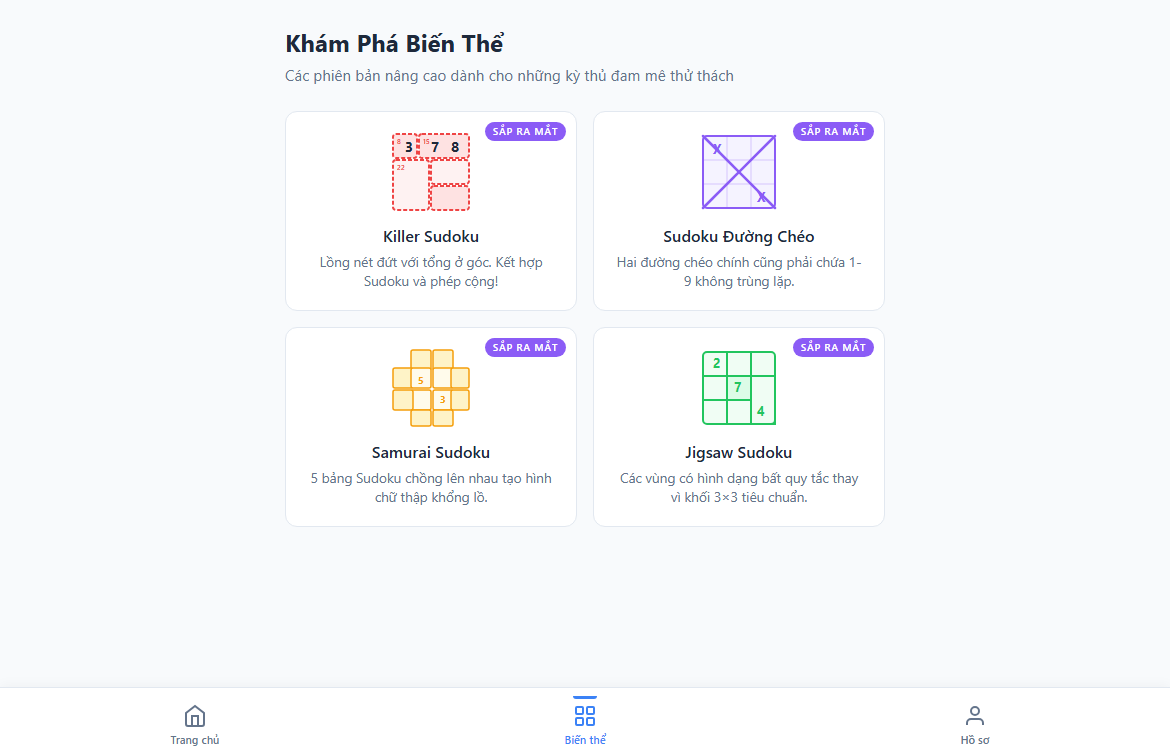
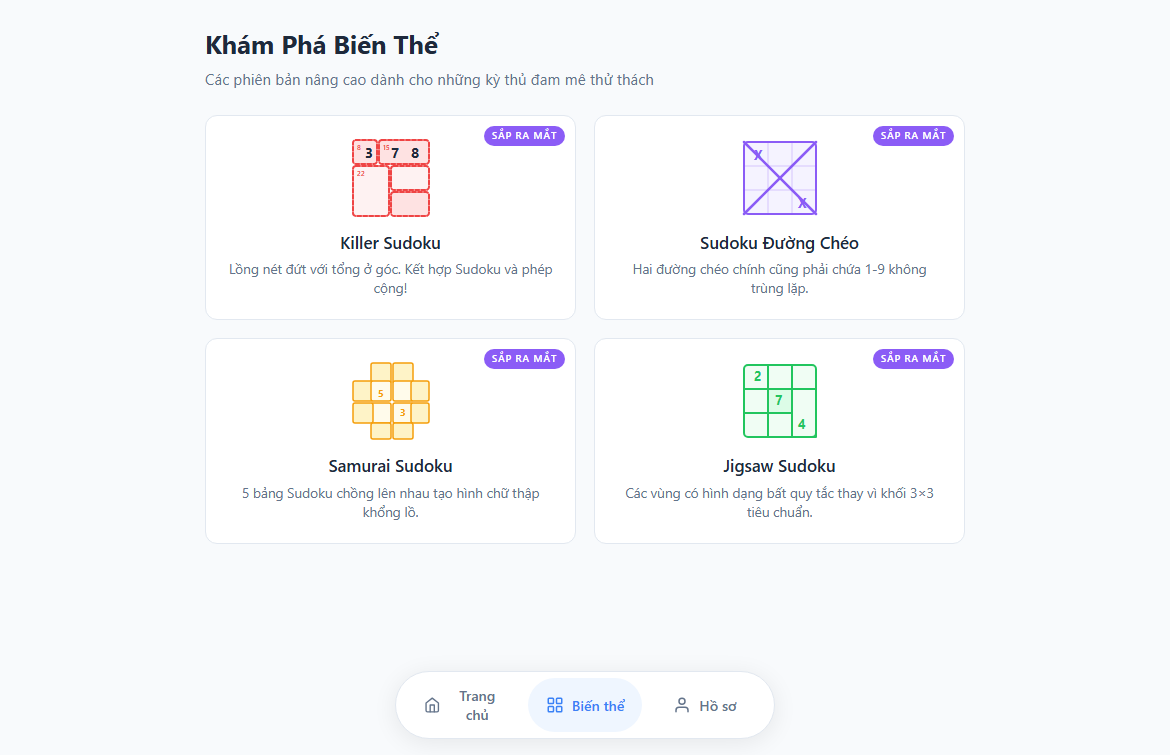
docs(ui): update readme, docs and 10 showcase screenshots

diff --git a/README.md b/README.md
@@ -1,9 +1,9 @@
-# 🧩 Sudoku Web App
+# 🧩 Sudoku Web App — Phiên Bản Tối Ưu Hóa 100% Cho PC
 
 <p align="center">
-  <b>Trải nghiệm giải đố trí tuệ kinh điển với giao diện hiện đại, mượt mà và tối giản.</b>
+  <b>Trải nghiệm giải đố trí tuệ kinh điển với giao diện chuyên biệt cho máy tính (PC / Laptop), mượt mà và tối giản.</b>
   <br>
-  <i>Xây dựng 100% bằng HTML5, CSS3 và Vanilla JavaScript - Tinh gọn, thuần khiết, không phụ thuộc thư viện.</i>
+  <i>Xây dựng 100% bằng HTML5, CSS3 và Vanilla JavaScript — Tinh gọn, thuần khiết, Web Audio procedural SFX, không phụ thuộc bất kỳ thư viện ngoài nào.</i>
 </p>
 
 <p align="center">
@@ -24,6 +24,7 @@
   <img src="https://img.shields.io/badge/Pure%20JS-ES6+-F7DF1E?style=flat-square&logo=javascript&logoColor=black" alt="JavaScript">
   <img src="https://img.shields.io/badge/HTML5-Semantic-E34F26?style=flat-square&logo=html5&logoColor=white" alt="HTML5">
   <img src="https://img.shields.io/badge/CSS3-Modern%20Design-1572B6?style=flat-square&logo=css3&logoColor=white" alt="CSS3">
+  <img src="https://img.shields.io/badge/PC%20Optimized-100%25-0284C7?style=flat-square" alt="PC Optimized">
   <img src="https://img.shields.io/badge/Dependencies-0-brightgreen?style=flat-square" alt="Zero Dependencies">
   <img src="https://img.shields.io/badge/License-MIT-blue?style=flat-square" alt="MIT License">
 </p>
@@ -33,20 +34,29 @@
 ## 🌟 Trải Nghiệm Hình Ảnh (Showcase)
 
 <p align="center">
-  <img src="screenshots/6-gameplay.png" alt="Màn hình bàn đấu Sudoku 9x9" width="48%">
+  <img src="screenshots/6-gameplay.png" alt="Màn hình bàn đấu Sudoku 9x9 PC" width="48%">
   &nbsp;
-  <img src="screenshots/2-lobby-home.png" alt="Sảnh chính" width="48%">
+  <img src="screenshots/5-profile.png" alt="Sảnh Hồ sơ chuẩn Dashboard không cần cuộn trang" width="48%">
 </p>
 <p align="center">
-  <img src="screenshots/3-tutorial.png" alt="Hướng dẫn tương tác 3 bước" width="48%">
+  <img src="screenshots/2-lobby-home.png" alt="Sảnh chính với thanh điều hướng Dock Desktop" width="48%">
   &nbsp;
-  <img src="screenshots/5-profile.png" alt="Hồ sơ thành tích & Biểu đồ thống kê" width="48%">
+  <img src="screenshots/10-mobile-notice.png" alt="Màn hình thông báo thân thiện chỉ dành cho kích thước màn hình PC" width="48%">
 </p>
 
 ---
 
 ## ✨ Điểm Nổi Bật Của Sản Phẩm
 
+* 🖥 **Thiết Kế Chuyên Biệt 100% Cho PC & Laptop:**
+  * Toàn bộ bố cục được tinh chỉnh hoàn hảo cho màn hình máy tính (1080p, 1440p, laptop 768p+).
+  * **Sảnh Hồ sơ (Profile Tab):** Bố cục Dashboard 2 cột cực kỳ ngăn nắp, hiển thị toàn bộ chỉ số, biểu đồ tròn và cài đặt trong đúng **1 màn hình duy nhất — Tuyệt đối không cần cuộn lên hay lướt xuống**.
+  * **Thanh điều hướng Dock:** Thiết kế dạng viên thuốc nổi (floating dock pill) hiện đại, sang trọng như các ứng dụng desktop cao cấp.
+  * **Thông báo thân thiện khi mở trên điện thoại (Mobile Device Notice):** Tự động phát hiện thiết bị di động / màn hình nhỏ và hiển thị màn hình thông báo lịch sự, giải thích game được tối ưu 100% cho PC và đề xuất trải nghiệm trên máy tính.
+* 🔊 **Hệ Thống Âm Thanh Procedural Web Audio SFX:**
+  * Tích hợp bộ tạo âm thanh tổng hợp đa hài âm (sine/triangle synthesizer) độc lập 100%, không cần tải file mp3 bên ngoài.
+  * Phản hồi âm thanh sống động cho 10 trạng thái: điền đúng, combo thăng hoa (arpeggio), điền sai, bật/tắt ghi chú, hoàn tác, gợi ý, nút bấm, tạm dừng, game over và giai điệu chiến thắng.
+  * Hỗ trợ bật/tắt nhanh âm thanh ngay trên Header trận đấu hoặc trong Sảnh Hồ sơ.
 * 🧠 **Đề Bài Chuẩn Quốc Tế:** Thuật toán tạo đề thông minh với **duy nhất 1 lời giải** cho mỗi ván chơi. Hỗ trợ 3 cấp độ phù hợp cho mọi đối tượng từ người mới đến cao thủ:
   * **Dễ (Easy):** 38 – 45 ô cho trước — Thư giãn, giải trí nhẹ nhàng.
   * **Trung bình (Medium):** 30 – 35 ô cho trước — Rèn luyện khả năng suy đoán.
@@ -55,11 +65,11 @@
 * 🛠 **Bộ Công Cụ Hỗ Trợ Đắc Lực:**
   * **Ghi Chú Nháp (Pencil Notes):** Điền số nháp linh hoạt, tự động làm sạch số nháp trùng khi chốt đáp án.
   * **Hoàn Tác & Xóa (Undo / Erase):** Sửa sai tức thì mà không lo gián đoạn mạch tư duy.
-  * **Gợi Ý Thông Minh (Hint):** Trợ giúp giải ô hóc búa kèm hiệu ứng tỏa sáng.
+  * **Gợi Ý Thông Minh (Hint):** Trợ giúp giải ô hóc búa kèm hiệu ứng tỏa sáng, dùng lần lượt từng ô tiện lợi.
   * **Bàn Phím Số Kèm Bộ Đếm:** Lưới phím 3x3 hiển thị số lượng con số còn thiếu, tự động làm mờ khi đã điền đủ 9 số.
 * 🎓 **Hướng Dẫn Tương Tác Trực Quan:** Chế độ Hướng dẫn 3 bước với hình ảnh động chuyển động ngay trên lưới cờ, giúp người chơi nắm vững quy tắc cơ bản chỉ sau 1 phút.
 * 📈 **Hồ Sơ & Thống Kê Toàn Diện:** Lưu trữ thành tích cá nhân, tính toán tỉ lệ thắng, chuỗi trận bất bại và thời gian giải nhanh nhất qua biểu đồ trực quan.
-* ⚡ **Thuần Khiết & Tiện Lợi (Zero Dependencies):** Không cần cài đặt thư viện nặng nề, không cần môi trường lập trình phức tạp. Nhấp đúp chuột là chơi ngay trên mọi thiết bị và trình duyệt.
+* ⚡ **Thuần Khiết & Tiện Lợi (Zero Dependencies):** Không cần cài đặt thư viện nặng nề, không cần môi trường lập trình phức tạp. Nhấp đúp chuột là chơi ngay trên mọi trình duyệt hiện đại.
 * 💾 **Tự Động Lưu Trạng Thái (Zero-Loss):** Tự động ghi nhớ ván chơi dở dang. Bạn có thể yên tâm đóng trình duyệt và quay lại tiếp tục bất kỳ lúc nào.
 
 ---
@@ -84,7 +94,7 @@ python server.py
 
 ---
 
-## ⌨ Phím Tắt Thao Tác Nhanh
+## ⌨ Phím Tắt Thao Tác Nhanh (Bàn Phím PC)
 
 | Phím Tắt | Chức Năng |
 | :--- | :--- |
@@ -93,6 +103,7 @@ python server.py
 | `Ctrl + Z` | Hoàn tác nước đi trước đó |
 | `N` | Bật / Tắt chế độ Ghi chú nháp (Notes) |
 | `H` | Nhận gợi ý (Hint) cho ô hiện tại |
+| `Space` / `P` | Tạm dừng ván đấu |
 | `↑` `↓` `←` `→` | Di chuyển ô chọn trên bàn cờ 9x9 |
 
 ---
@@ -108,42 +119,44 @@ Sudoku_game/
 ├── .gitignore                 # Danh sách tệp loại trừ không lưu trên Git
 ├── docs/                      # Hệ thống tài liệu kỹ thuật toàn diện cho Dev & AI
 │   ├── 01_project_overview.txt         # Tổng quan, triết lý, cây thư mục & cách chạy
-│   ├── 02_architecture_and_modules.txt # Kiến trúc SPA & chi tiết 9 module JavaScript
+│   ├── 02_architecture_and_modules.txt # Kiến trúc SPA & chi tiết các module JavaScript
 │   ├── 03_game_logic_and_rules.txt     # Chi tiết quy tắc tính điểm, combo, phạt & Game Over
-│   ├── 04_ui_ux_design_system.txt      # Bảng màu, typography, responsive, hiệu ứng cảnh báo
+│   ├── 04_ui_ux_design_system.txt      # Bảng màu, typography, bố cục PC Desktop, cảnh báo
 │   ├── 05_dev_guidelines_and_notes.txt # Những lưu ý sống còn, quy chuẩn commit, quy tắc Git
-│   ├── 06_css_styling_and_architecture.txt # Phân tích chuyên sâu toàn diện 6 file CSS độc lập
+│   ├── 06_css_styling_and_architecture.txt # Phân tích chuyên sâu 6 file CSS desktop
 │   └── 07_developer_tools_and_testing.txt  # Hướng dẫn bộ công cụ DevTools & QA Cheat HUD
 ├── devtools/                  # Bộ công cụ Developer Tools & Cheat kiểm thử (Tách biệt độc lập)
 │   ├── devtools.css           # Giao diện Dark Console HUD & Ghost Answers
 │   └── devtools.js            # Module xác thực & logic can thiệp game engine
-├── screenshots/               # Thư viện ảnh chụp giao diện thực tế (9 màn hình)
+├── screenshots/               # Thư viện ảnh chụp giao diện thực tế (10 màn hình PC)
 │   ├── 1-splash.png           # Màn hình mở đầu (Splash Screen) với hiệu ứng số nảy
-│   ├── 2-lobby-home.png       # Sảnh chính (Lobby Home) chọn cấp độ chơi
+│   ├── 2-lobby-home.png       # Sảnh chính (Lobby Home) kèm thanh Dock Desktop
 │   ├── 3-tutorial.png         # Hướng dẫn tương tác từng bước trực quan
 │   ├── 4-variants.png         # Tab thông tin 4 biến thể Sudoku nổi tiếng
-│   ├── 5-profile.png          # Hồ sơ thành tích: cụm Donut Chart & 6 thẻ thông số
+│   ├── 5-profile.png          # Hồ sơ thành tích: Dashboard 2 cột không cuộn trang
 │   ├── 6-gameplay.png         # Bàn cờ 9x9 với tính điểm, combo, đồng hồ, phím số
-│   ├── 7-danger-warning.png   # Hiệu ứng cảnh báo nguy hiểm khi chọn sai nhiều lần
+│   ├── 7-danger-warning.png   # Hiệu ứng cảnh báo nguy hiểm khi chọn sai liên tiếp
 │   ├── 8-victory-modal.png    # Hộp thoại chiến thắng với bảng tổng kết điểm chi tiết
-│   └── 9-devtools-qa.png      # Bảng điều khiển QA Dev Console & chế độ Ghost Answers
+│   ├── 9-devtools-qa.png      # Bảng điều khiển QA Dev Console & chế độ Ghost Answers
+│   └── 10-mobile-notice.png   # Màn hình thông báo thân thiện chỉ dành cho màn hình PC
 ├── css/
-│   ├── main.css               # Reset CSS, hệ thống màu, chuyển màn hình
+│   ├── main.css               # Reset CSS, hệ thống màu, chuyển màn hình, mobile notice
 │   ├── splash.css             # Giao diện & hoạt ảnh Màn hình Khởi đầu
-│   ├── lobby.css              # Giao diện Sảnh chính, Menu, thẻ ván dở
+│   ├── lobby.css              # Giao diện Sảnh chính, Menu Dock, thẻ ván dở
 │   ├── gameplay.css           # Bảng 9x9, bàn phím số, cảnh báo nguy hiểm
 │   ├── modals.css             # Hộp thoại Hướng dẫn, Bảng điểm chi tiết, Game Over
-│   └── profile.css            # Hồ sơ, biểu đồ Donut Chart, 6 thẻ thành tích
+│   └── profile.css            # Hồ sơ Dashboard PC: Biểu đồ Donut & 6 thẻ thông số
 └── js/
     ├── storage.js             # Lớp lưu trữ LocalStorage & Memory Fallback
+    ├── sound.js               # Động cơ âm thanh Web Audio procedural SFX (10 SFX)
     ├── sudoku-engine.js       # Thuật toán sinh đề & giải Sudoku độc bản
-    ├── game.js                # Quản lý ván chơi, bộ đếm giờ, lỗi, hoàn tác
+    ├── game.js                # Quản lý ván chơi, bộ đếm giờ, lỗi, hoàn tác, điểm
     ├── ui-board.js            # Render bàn cờ, highlight hàng/cột/khối
     ├── ui-controls.js         # Bàn phím số, công cụ phụ trợ, cảnh báo đỏ
     ├── tutorial.js            # Quản lý các bước hướng dẫn động
     ├── variants.js            # Danh sách thông tin 4 biến thể Sudoku
     ├── profile.js             # Xử lý thống kê và vẽ biểu đồ tỉ lệ thắng
-    └── app.js                 # Điều hướng và khởi động ứng dụng
+    └── app.js                 # Điều hướng ứng dụng, router & mobile detection
 ```
 
 ---
